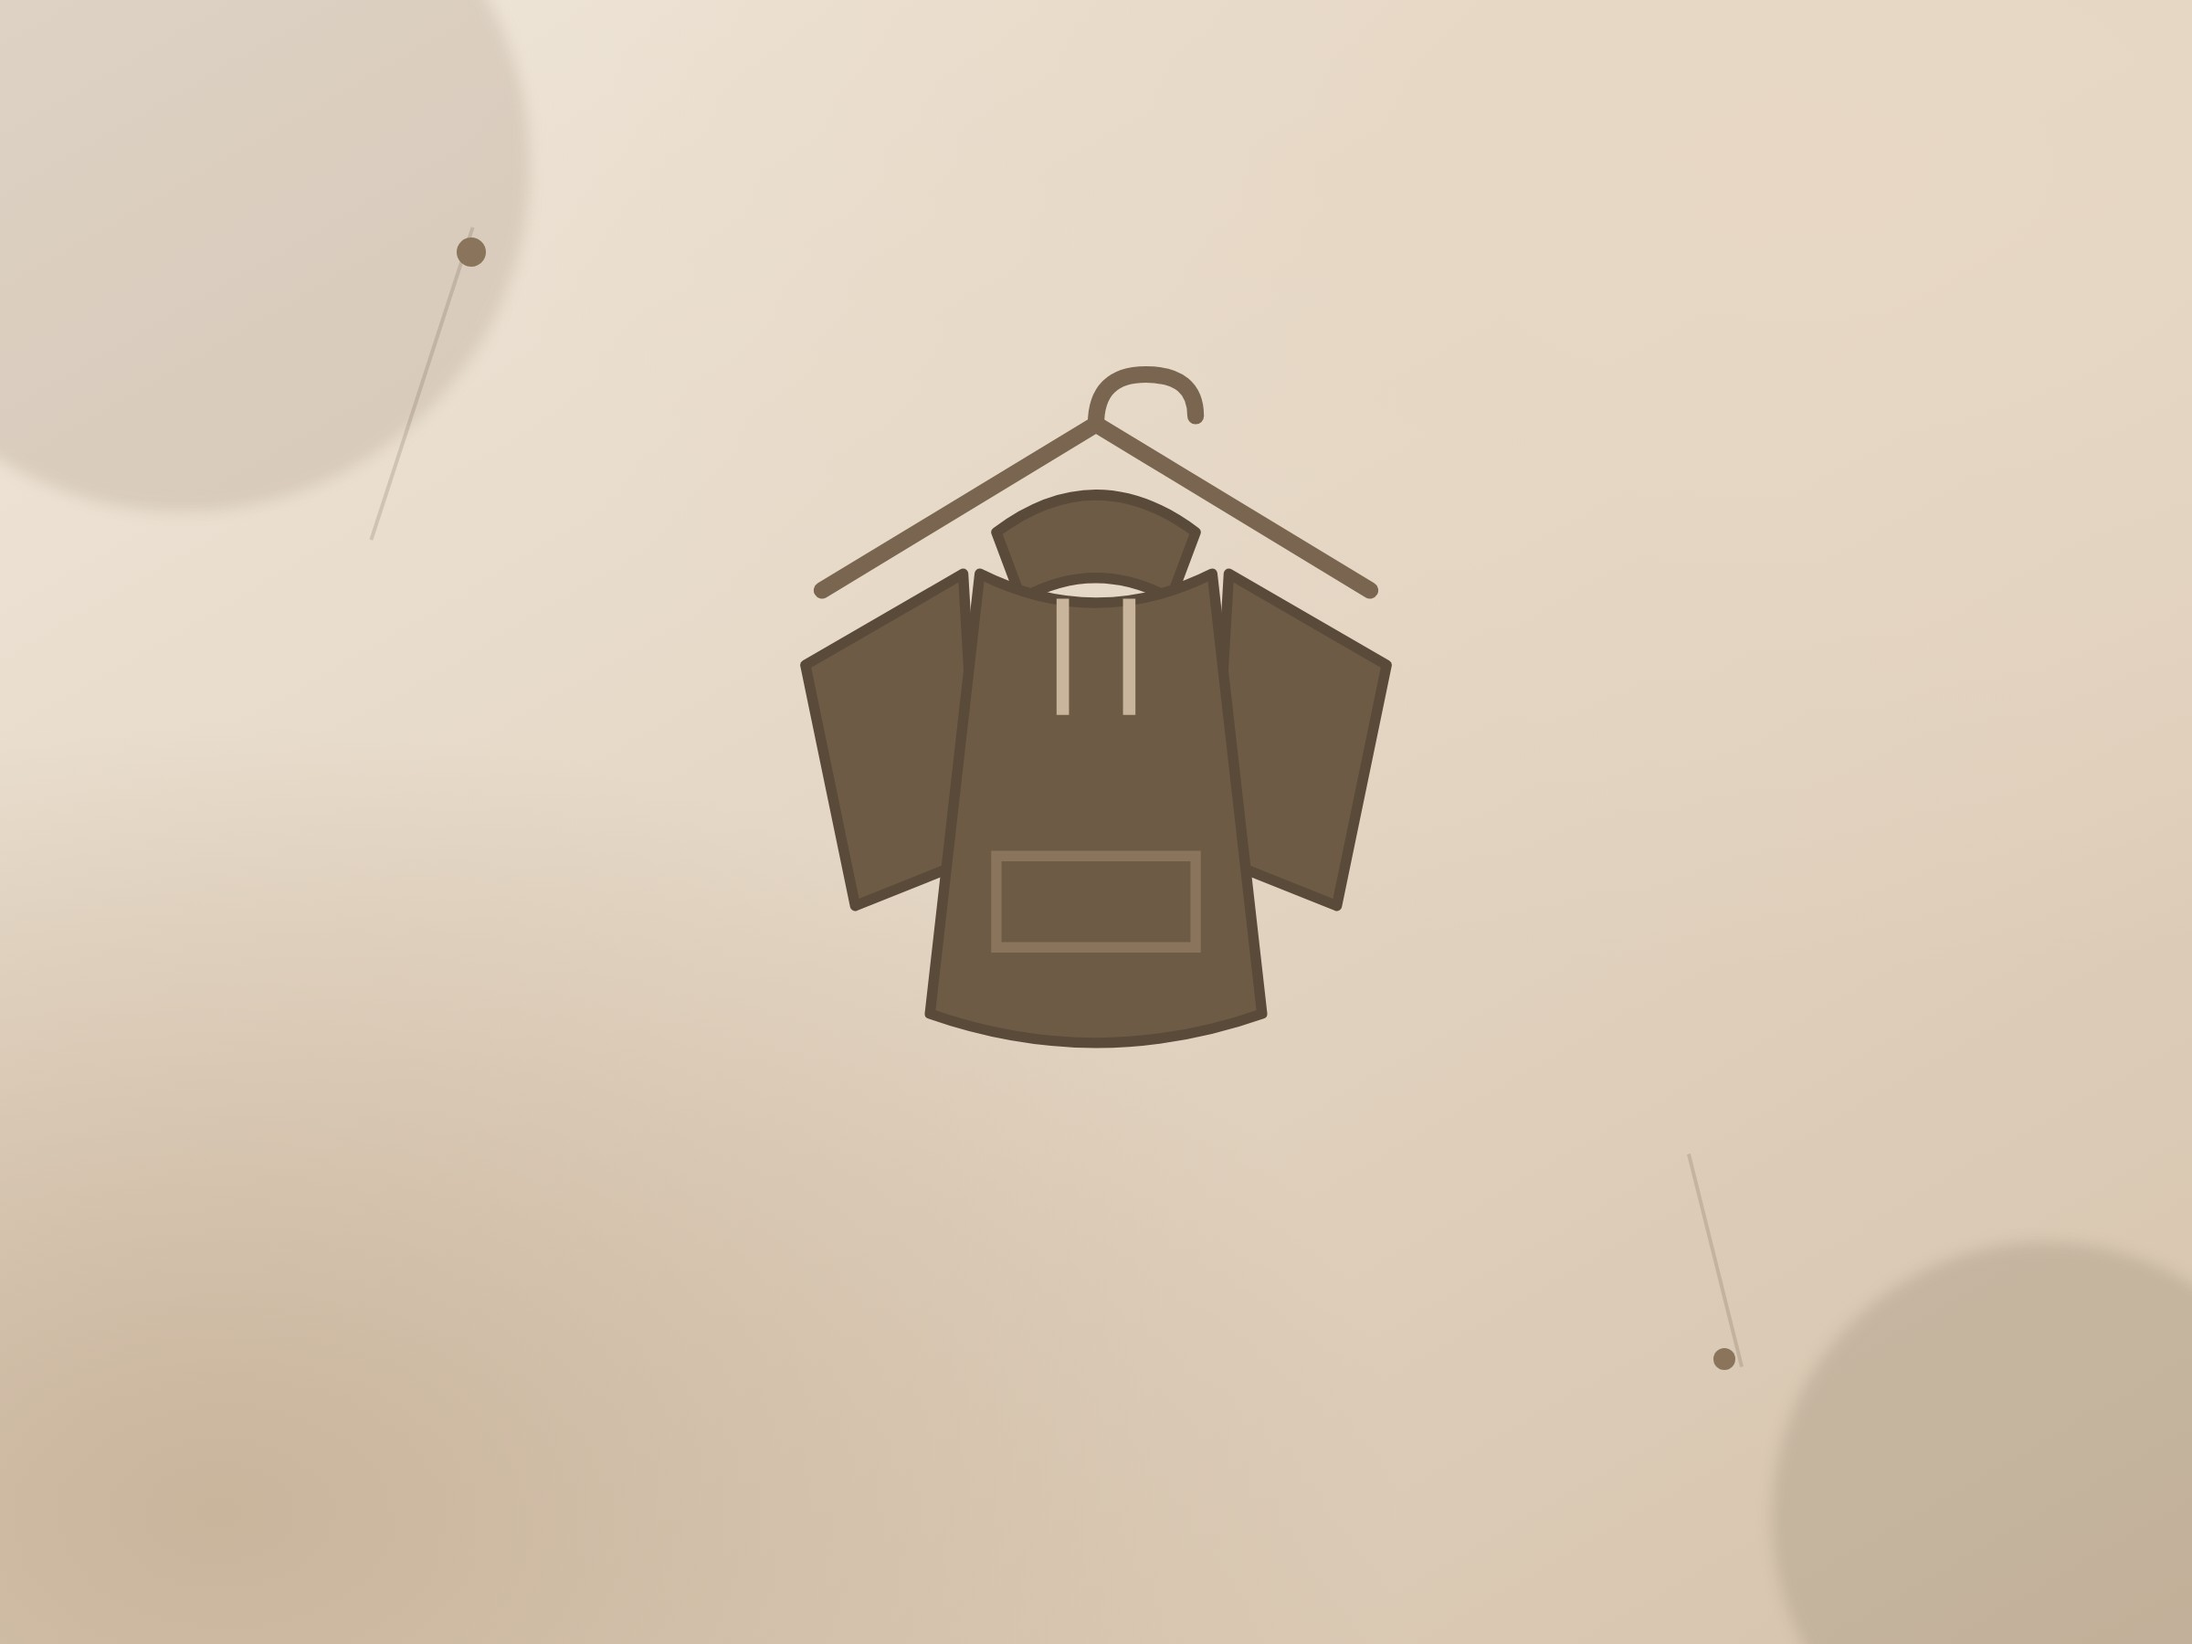
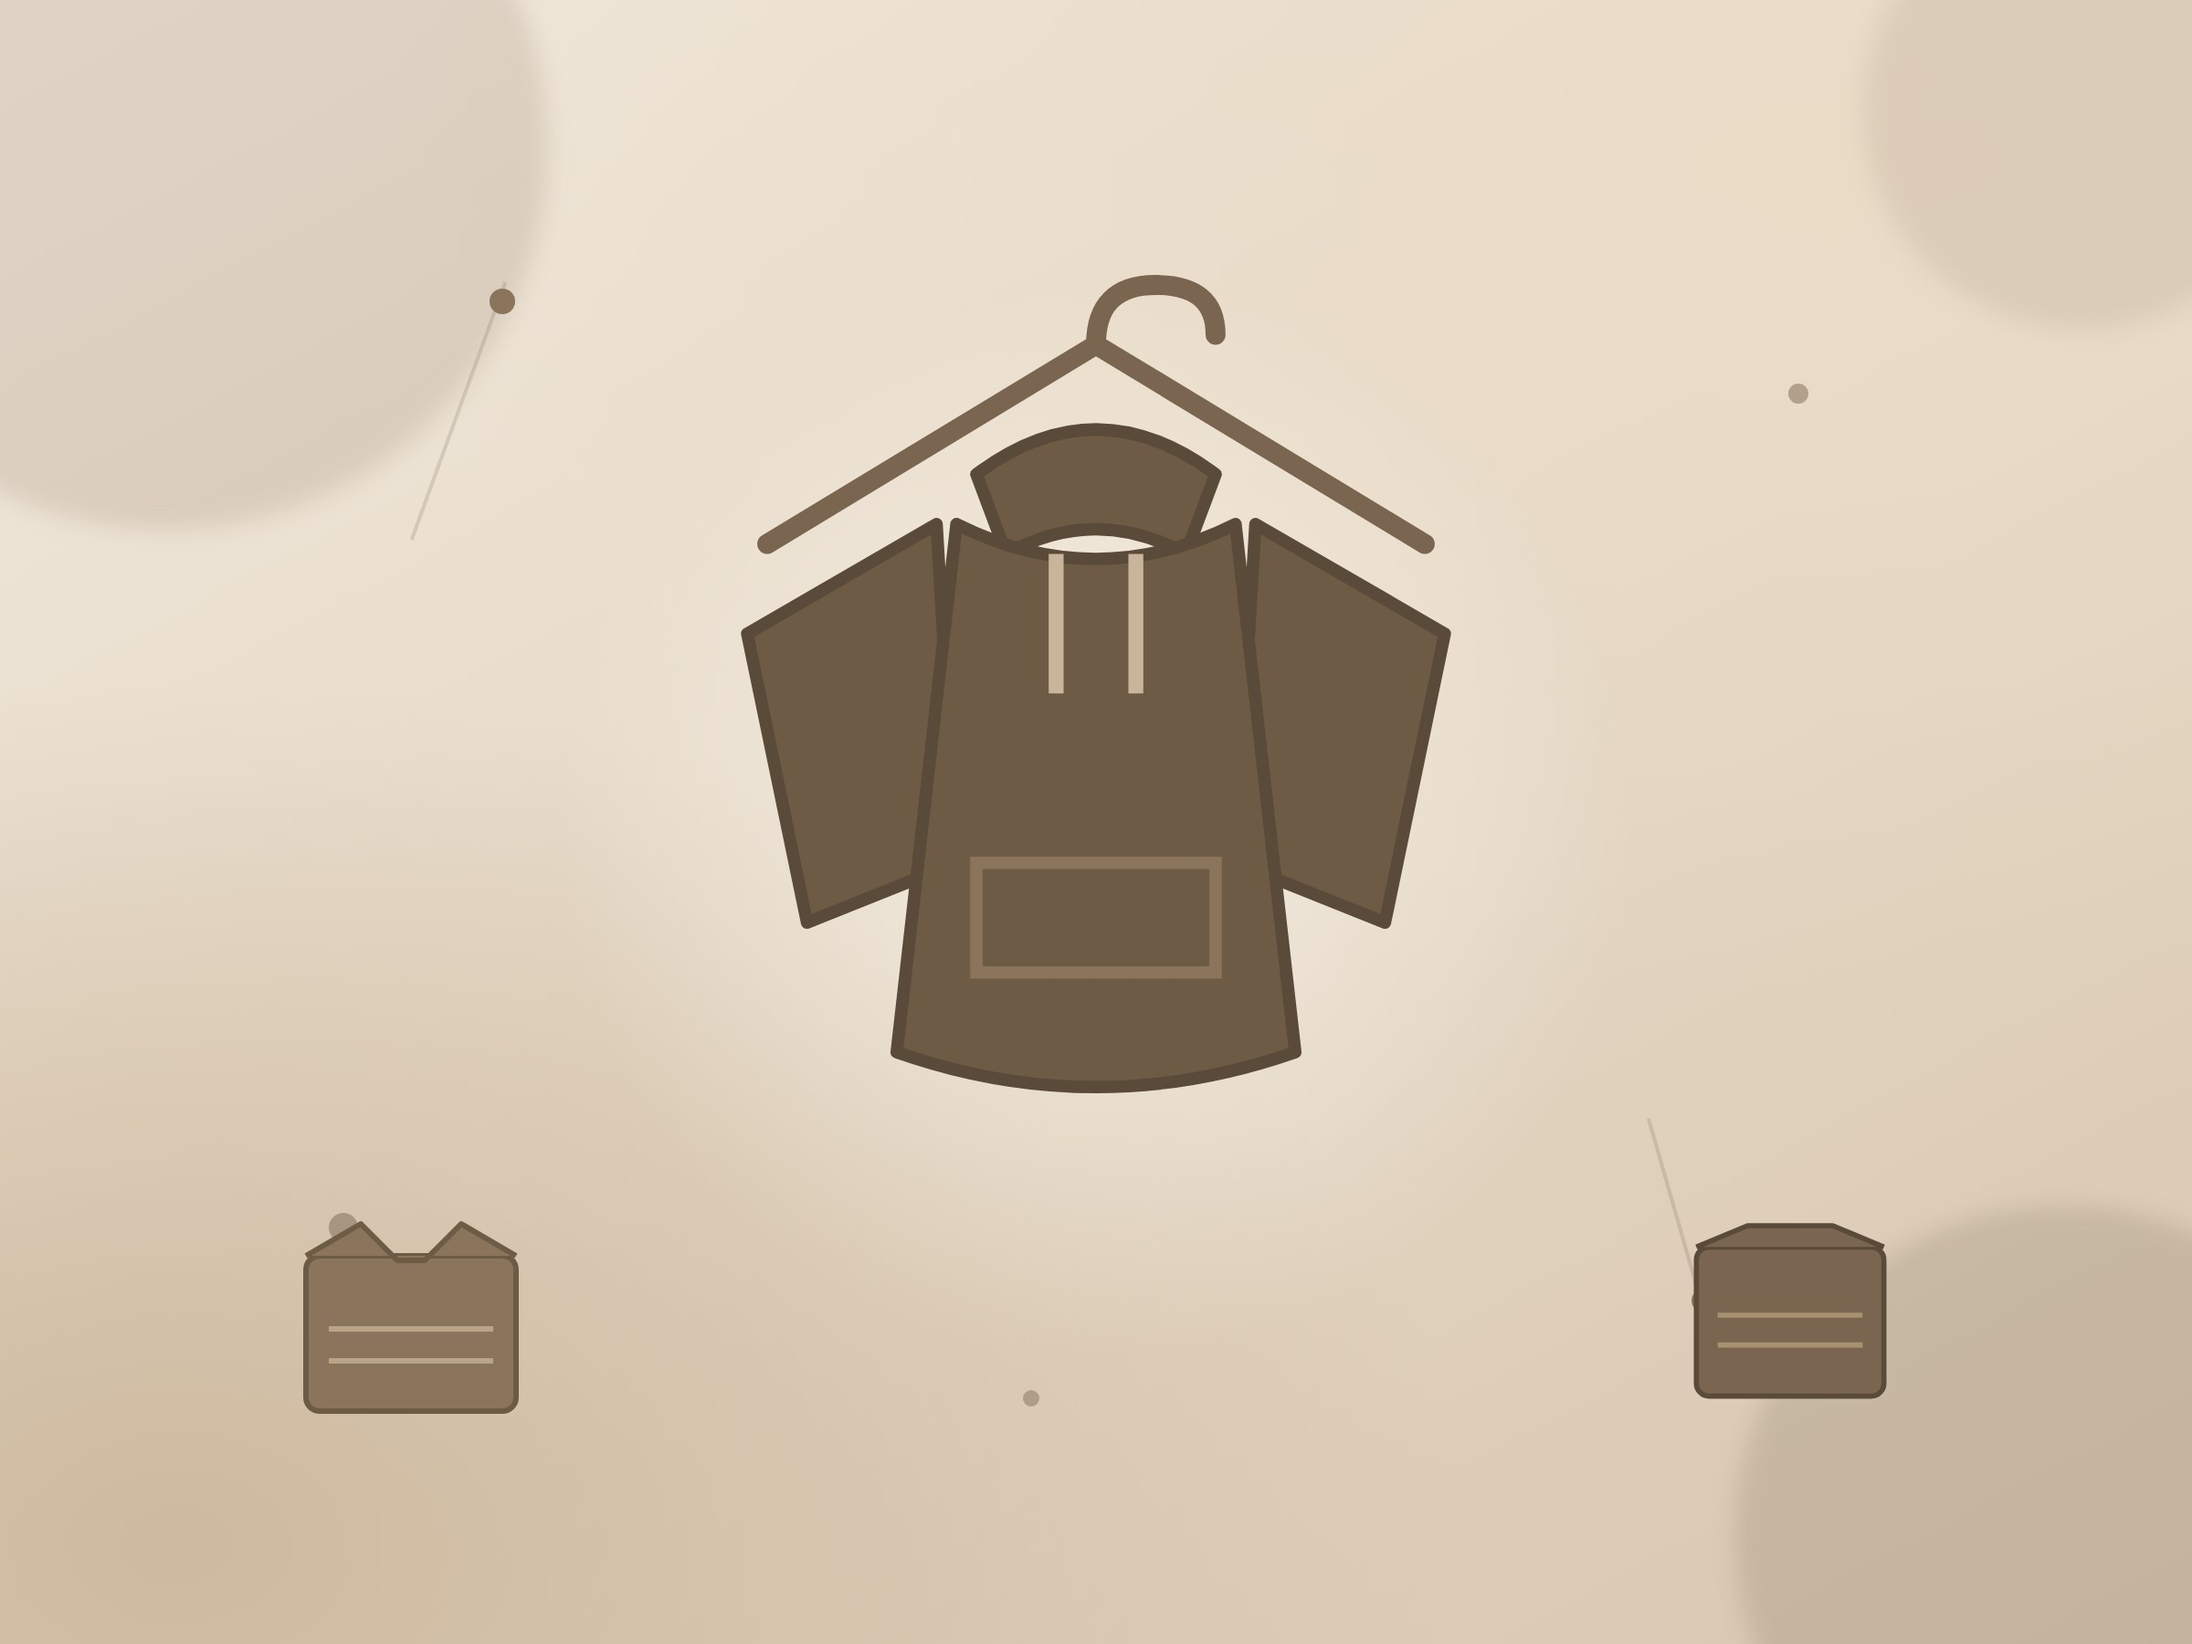
Nowe grafiki kafli + filtr Damskie w wyszukiwarce i przez URL
- kat-dzieci.jpg / kat-dorosli.jpg: bogatsze, pełniejsze ilustracje
  (większe ubranko, halo, słoneczko/chmurka, złożone t-shirt+sweter)
- Szukajka: dodany skrót 'Damskie'; 'Męskie' i 'Damskie' prowadzą teraz
  wprost do działu dorosłych z ustawioną płcią
- ListingProduktow: filtr płci czytany z URL (?plec=meskie|damskie),
  dzięki czemu linki z wyszukiwarki od razu filtrują

Claude-Session: https://claude.ai/code/session_01JgGstuCg9pdFDPMs3T2bDz

diff --git a/src/components/Szukajka.tsx b/src/components/Szukajka.tsx
@@ -10,16 +10,17 @@ import { formatCena, pasujeFraza } from "@/lib/filtrowanie";
 let KATALOG_CACHE: Produkt[] | null = null;
 
 // Szybkie skróty pokazywane po kliknięciu w puste pole.
-const SKROTY: { label: string; fraza: string }[] = [
+// `href` → bezpośredni link (np. do działu dorosłych z płcią); w pozostałych szuka po frazie.
+const SKROTY: { label: string; fraza?: string; href?: string }[] = [
   { label: "Dziewczynki", fraza: "dziewczynki" },
   { label: "Chłopcy", fraza: "chlopcy" },
   { label: "Niemowlęta", fraza: "niemowleta" },
-  { label: "Męskie", fraza: "męskie" },
+  { label: "Męskie", href: "/produkty?kategoria=dorosli&plec=meskie" },
+  { label: "Damskie", href: "/produkty?kategoria=dorosli&plec=damskie" },
   { label: "Komplet", fraza: "komplet" },
   { label: "Body", fraza: "body" },
   { label: "Spodnie", fraza: "spodnie" },
   { label: "Bluza", fraza: "bluza" },
-  { label: "Czapka", fraza: "czapka" },
 ];
 
 export function Szukajka({ mobilna = false }: { mobilna?: boolean }) {
@@ -117,9 +118,16 @@ export function Szukajka({ mobilna = false }: { mobilna?: boolean }) {
               <div className="flex flex-wrap gap-2">
                 {SKROTY.map((s) => (
                   <button
-                    key={s.fraza}
+                    key={s.label}
                     onMouseDown={(e) => e.preventDefault()}
-                    onClick={() => idzDoWynikow(s.fraza)}
+                    onClick={() => {
+                      if (s.href) {
+                        setOtwarte(false);
+                        router.push(s.href);
+                      } else {
+                        idzDoWynikow(s.fraza ?? "");
+                      }
+                    }}
                     className="rounded-full border border-linia-2 px-3 py-1.5 text-[12.5px] font-medium text-ink transition-colors hover:border-ink hover:bg-szary"
                   >
                     {s.label}

diff --git a/src/components/ListingProduktow.tsx b/src/components/ListingProduktow.tsx
@@ -99,8 +99,11 @@ function Listing() {
     [wszystkie, tylkoDzieci],
   );
 
+  const startPlec = params.get("plec");
+  const poczatkowaPlec: Plec = startPlec === "meskie" || startPlec === "damskie" ? startPlec : "wszystkie";
+
   const [kategoria, setKategoria] = useState<FiltrKategoria>(poczatkowa);
-  const [plec, setPlec] = useState<Plec>("wszystkie");
+  const [plec, setPlec] = useState<Plec>(poczatkowaPlec);
   const [wiek, setWiek] = useState<FiltrWiek>("wszystkie");
   const [rozmiary, setRozmiary] = useState<string[]>([]);
   const [cenaIdx, setCenaIdx] = useState<number | null>(null);
